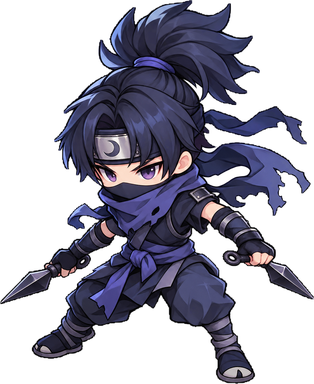
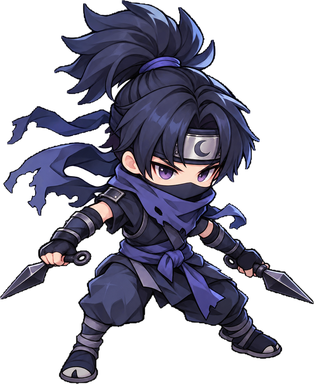
Fight of Heroes 1.13.0: 목표 킬 직접 정하기, 닌자 방향 수정, 둥근 기둥, 부드러운 발밑 그림자
Claude-Session: https://claude.ai/code/session_016g1TGBsBFPop2go7sckziN

diff --git a/fight-of-heroes/tools/gen_map2.py b/fight-of-heroes/tools/gen_map2.py
@@ -88,10 +88,14 @@ camp_sym("lair_wolves_l", "lair_wolves_r", (CX - 330, 2900), ["wolf_alpha", "wol
 camp_sym("lair_inner_l", "lair_inner_r", (CX - 640, 3120), ["bone_golem", "stone_golem", "skeleton", "skeleton"], 60, 150, tier=3, aggro=330)
 camp("ancient_dragon", (CX, 3150), ["ancient_dragon"], 600, 0, final=True)
 
-# 바위
+# 둥근 바위 기둥 (좌우 대칭): 예전 네모 바위와 같은 자리, 비슷한 크기
+pillars = []
 for r in [(1050, 1200, 150, 170), (1100, 2050, 170, 140), (2050, 1560, 130, 130), (1550, 1650, 100, 100),
           (700, 300, 150, 120), (700, 2950, 150, 120), (2250, 900, 140, 110), (1250, 1500, 90, 90), (2300, 1900, 110, 100)]:
-    add_sym(r)
+    x, y, w, h = r
+    cx, cy, rad = x + w / 2, y + h / 2, (w + h) / 4
+    pillars.append((cx, cy, rad))
+    pillars.append((W - cx, cy, rad))
 
 
 def fmt_camp(c):
@@ -120,8 +124,9 @@ for c in camps:
 out += ['[resource]', 'script = ExtResource("1")', 'id = "valley_02"', 'display_name = "용의 협곡"',
         'size = Vector2(%d, %d)' % (W, H), 'blue_spawn = Vector2(320, %d)' % CY, 'red_spawn = Vector2(%d, %d)' % (W - 320, CY),
         'obstacles = Array[Rect2]([%s])' % rects(obs), 'lava_areas = Array[Rect2]([%s])' % rects(lava),
+        'pillars = PackedVector3Array(%s)' % ", ".join("%g, %g, %g" % p for p in pillars),
         'camps = Array[Resource]([%s])' % ", ".join('SubResource("%s")' % c["id"] for c in camps),
         'ground_color = Color(0.2, 0.29, 0.21, 1)', 'obstacle_color = Color(0.36, 0.34, 0.31, 1)']
 path = os.path.join(os.path.dirname(os.path.dirname(os.path.abspath(__file__))), "data/maps/valley_02.tres")
 open(path, "w").write("\n".join(out) + "\n")
-print(len(obs), "장애물", len(camps), "캠프")
+print(len(obs), "벽", len(pillars), "기둥", len(camps), "캠프")

diff --git a/fight-of-heroes/tools/import_art.py b/fight-of-heroes/tools/import_art.py
@@ -27,7 +27,7 @@ MAP_OBJECTS = ["base_fountain", "shop", "center_stage", "camp_ring", "boss_altar
                "tree_1", "tree_2", "bush", "rock_1", "rock_2", "crystal", "torch", "pillar", "barrel", "crate"]
 
 # 게임은 캐릭터가 오른쪽을 본다고 보고 왼쪽으로 갈 때 뒤집는다. 왼쪽을 보고 그려진 그림은 넣을 때 뒤집는다.
-FACING_LEFT = {"saint", "frost_mage", "ninja", "gunslinger", "mechanic"}
+FACING_LEFT = {"saint", "frost_mage", "gunslinger", "mechanic"}
 
 KINDS = {
     "heroes": ("assets/heroes", 384),

diff --git a/fight-of-heroes/docs/PHASE18_REPORT.md b/fight-of-heroes/docs/PHASE18_REPORT.md
@@ -1,0 +1,28 @@
+# PHASE 18 보고서: 목표 킬 직접 정하기, 닌자 방향, 둥근 기둥, 그림자 (1.13.0)
+
+## 목표 킬을 직접 정하기
+
+- 새 게임 화면과 설정 화면의 목표 킬을 10·15·20·30 네 개 중 고르던 방식에서 **[−] 숫자 [+]** 로 바꿨습니다. 1부터 100까지 1씩 정할 수 있고, 바로 저장됩니다(`UiKit.kill_stepper`).
+- 1대1 연습은 목표 킬을 10 이하로 줄이던 규칙을 없앴습니다. 정한 숫자 그대로 씁니다.
+
+## 닌자 그림 방향
+
+- 닌자 원래 그림이 오른쪽을 보고 있었는데, 정리 도구가 왼쪽을 보는 그림 목록(`FACING_LEFT`)에 넣어 한 번 더 뒤집고 있었습니다. 그래서 움직이는 방향과 반대로 보였습니다.
+- 그림(`ninja.png`, `ninja_face.png`)을 바로잡고 목록에서 뺐습니다.
+
+## 둥근 기둥
+
+- 맵 가운데의 바위 18개를 네모에서 **둥근 기둥**으로 바꿨습니다(`MapData.pillars`: 중심과 반지름). 자리와 크기는 예전과 비슷합니다.
+- 충돌은 원형, 길찾기는 16각형으로 피합니다. 시야와 투사체도 막습니다.
+- 기울어진 시점에서는 위로 올린 윗면과, 가운데가 밝고 아래로 갈수록 어두운 옆면을 그려 원기둥처럼 보입니다. 벽과 함께 아래쪽(앞쪽)에 있는 것부터 나중에 그립니다.
+- 벽(긴 네모)은 그대로입니다.
+
+## 캐릭터의 2.5D 느낌
+
+- 2.5D 시점에서 캐릭터는 바닥과 함께 눕히지 않고 **서 있는 그대로** 그립니다(그림 자체가 비스듬히 내려다본 모습이라 눕히면 납작해 보입니다). 대신 바닥, 범위 표시, 그림자가 타원으로 눕습니다.
+- 발밑 그림자를 가장자리가 흐린 타원으로 바꾸고, 기둥 그림자처럼 오른쪽 아래로 살짝 비켜 그려 바닥에 서 있는 느낌을 더했습니다.
+
+## 점검
+
+- 새 시험: 목표 킬 [−]/[+] (1 아래로 안 내려감), 둥근 기둥이 이동과 시야를 막음.
+- 자동 시험 173개 모두 통과, 전체 흐름 시험 성공.
